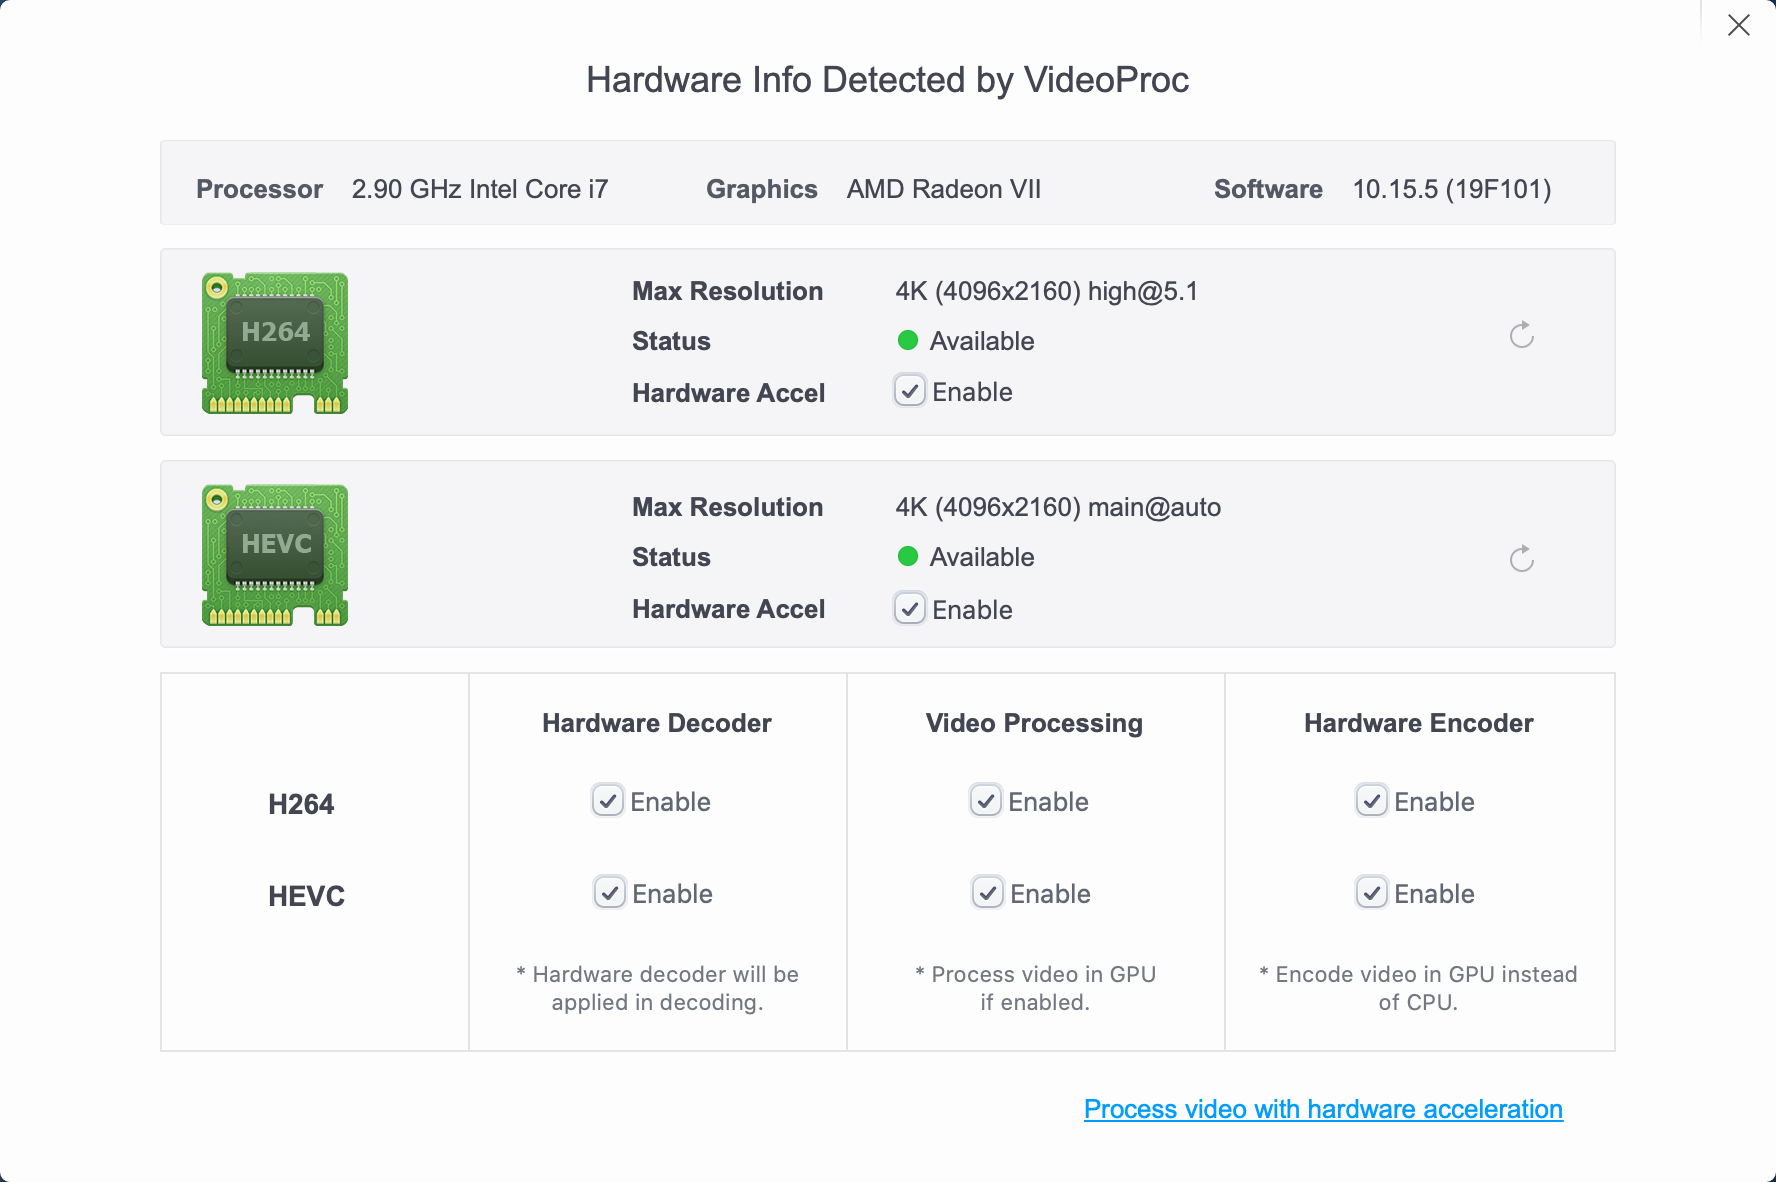
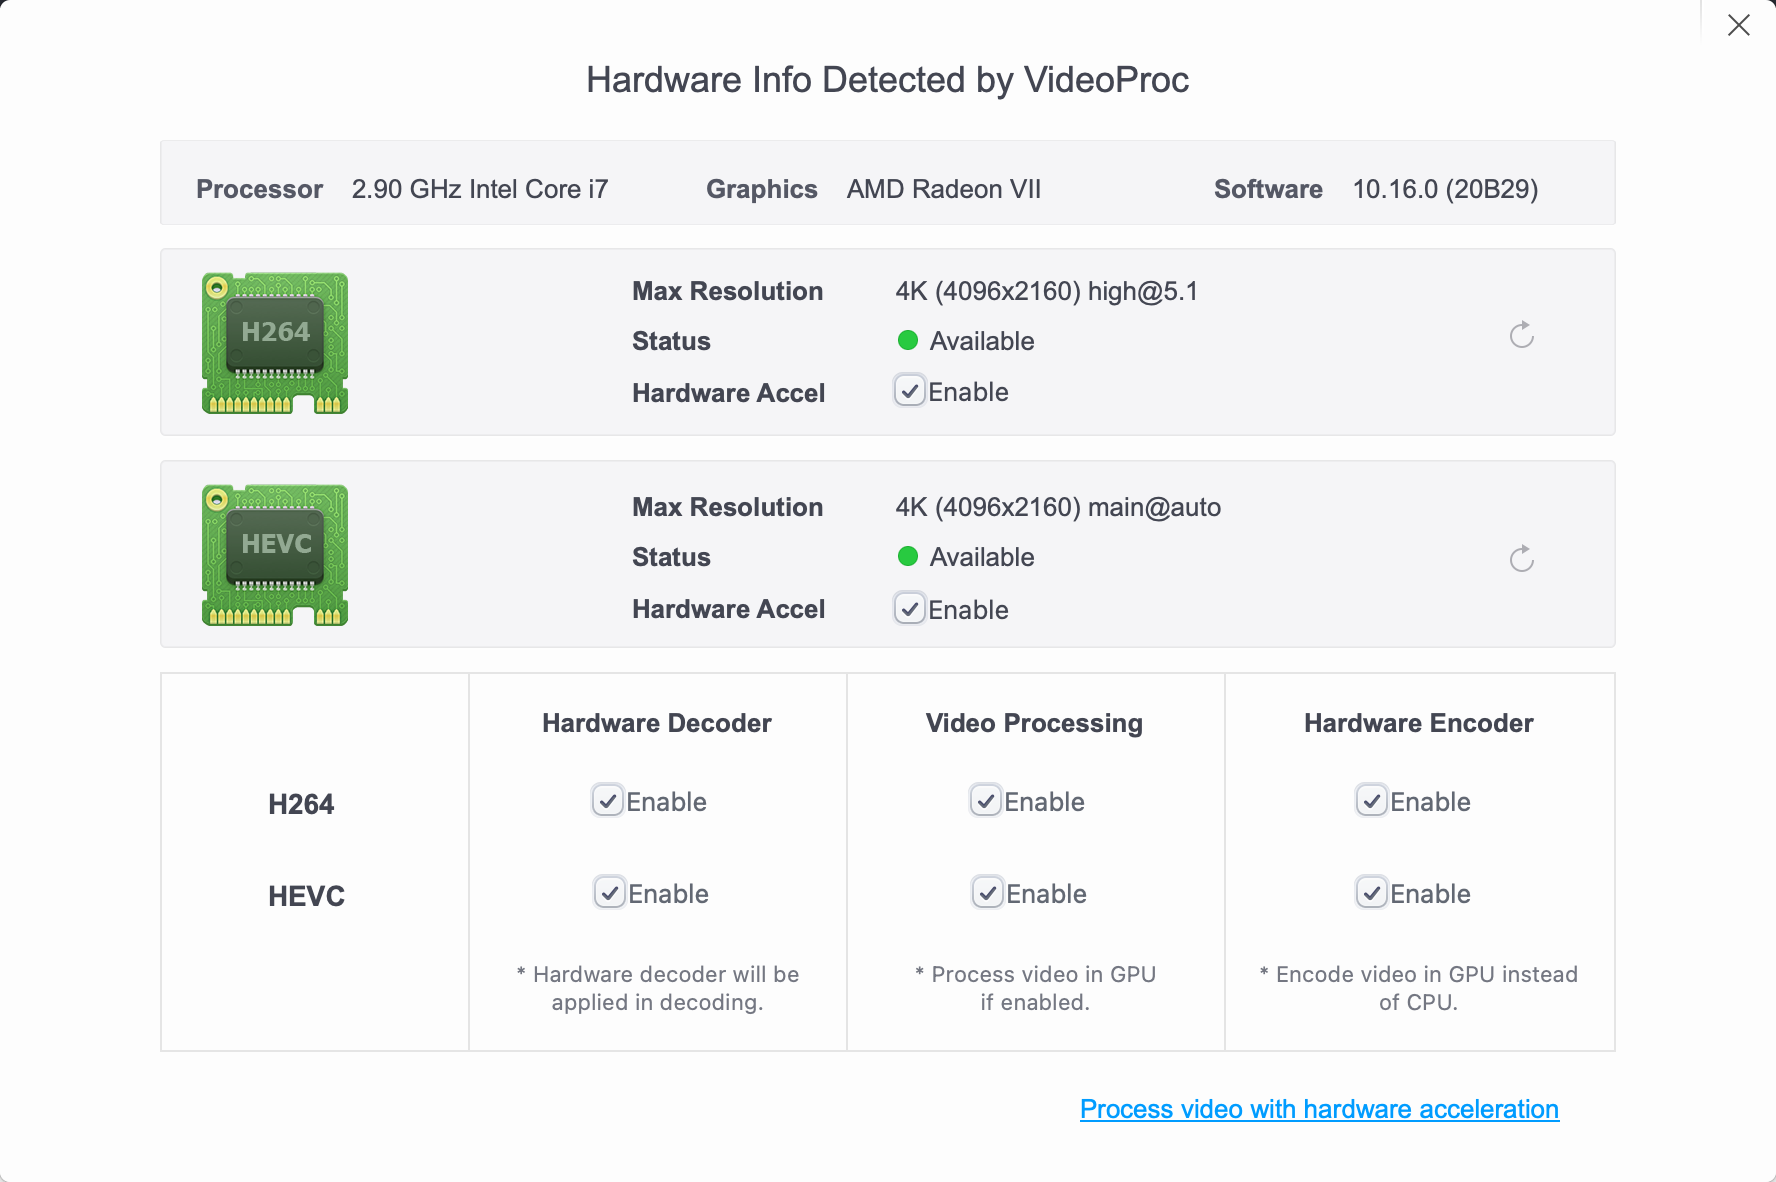
big sur

diff --git a/README.md b/README.md
@@ -19,7 +19,7 @@ Highly recommended reading the whole [OpenCore Install Guide](https://dortania.g
 ## Software
 
 * Bootloader: OpenCore 0.6.3-DEBUG
-* OS: macOS Catalina 10.15.7 (19H15 / 2020-11-11)
+* OS: macOS Big Sur 11.0.1 (20B29 / 2020-11-12)
 
 ## What's working
 
